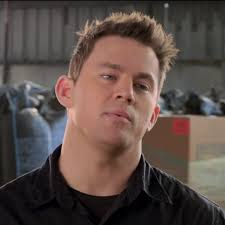
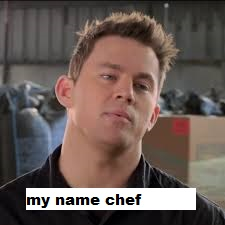
Complete about.html

Changed region(s): [[0.0933, 0.8089, 0.8711, 0.9333]]

diff --git a/about.html b/about.html
@@ -1,0 +1,22 @@
+<html lang="en US">
+	<head>
+		<title>Grocery Prep - About the Chef</title>
+	</head>
+
+	<body>
+		<header>
+			<h1>Grocery Prep</h1>
+			<nav>
+				<a href="index.html">Home</a>
+				<a href="about.html">About the Chef</a>
+			</nav>
+		</header>
+		
+		<main>
+			<h1>About the Chef</h1>
+			<p>My name Chef</p>
+			<img src="imgs/chef.jpg" height="300" alt="My name chef">
+		</main>
+	</body>
+<html>
+
